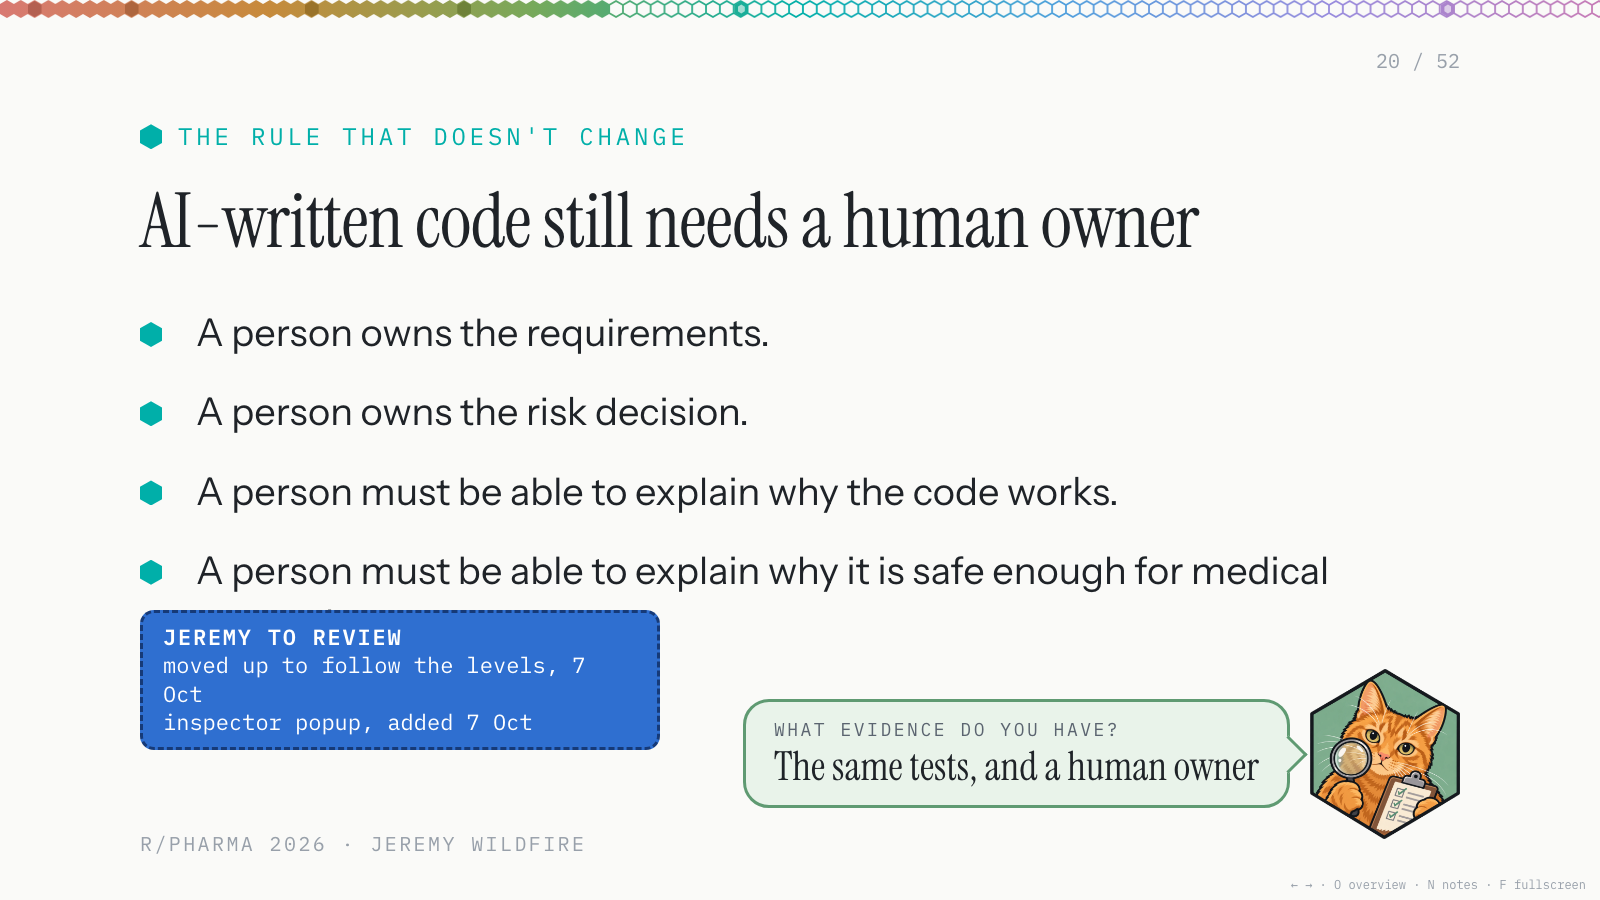
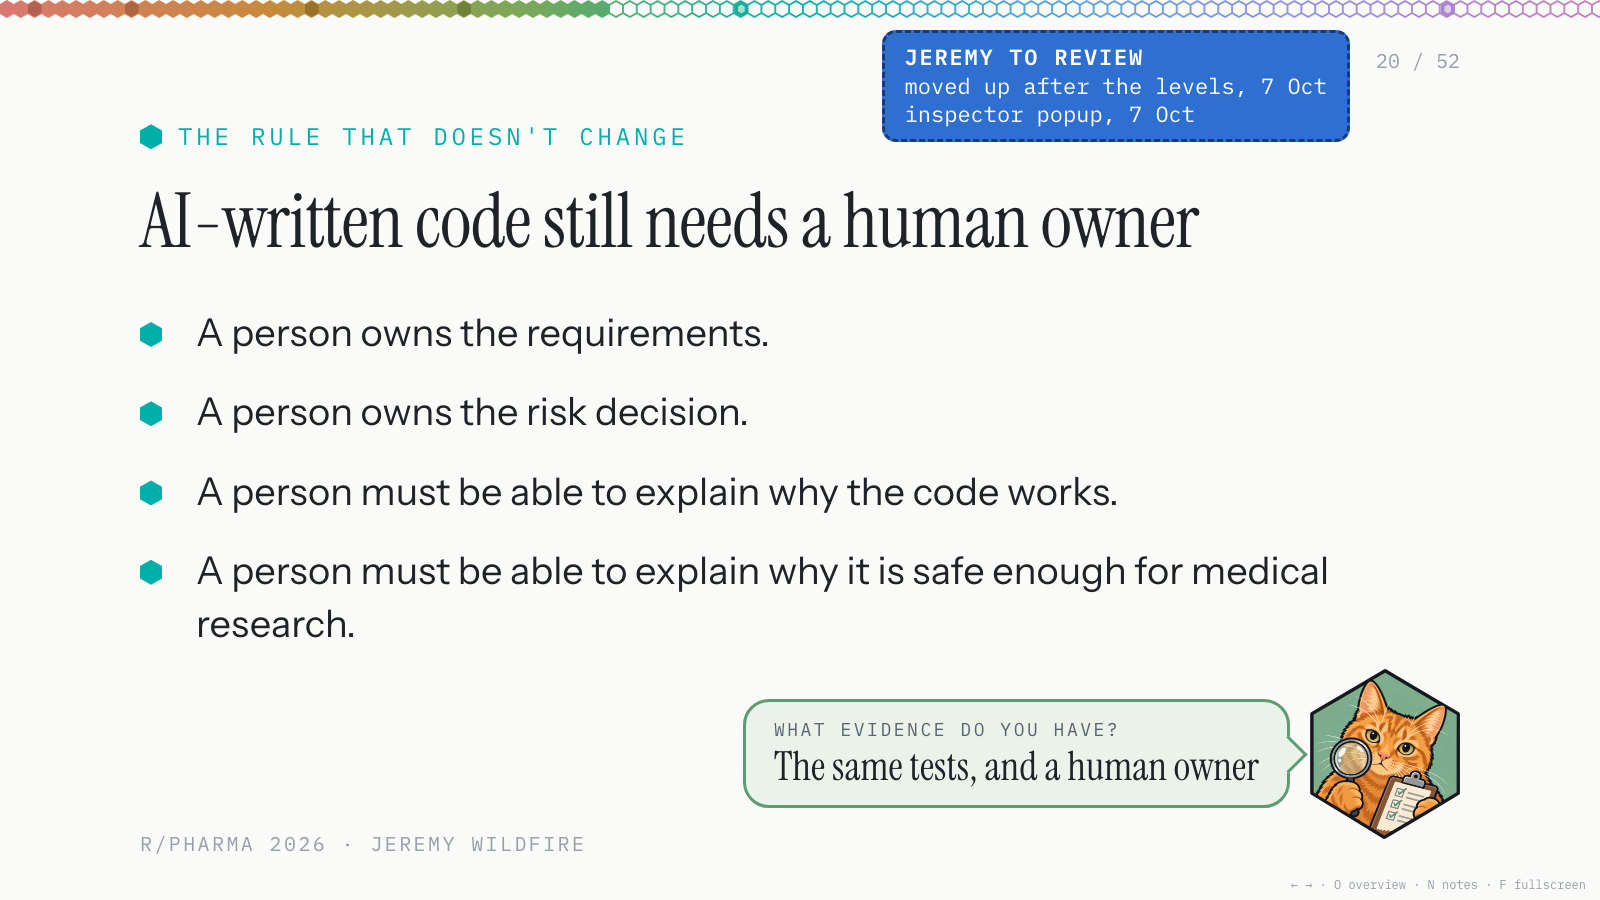
Keynote: slide 20 review box to the header

Changed region(s): [[0.0625, 0.6533, 0.4375, 0.84], [0.5312, 0.0311, 0.8438, 0.1556]]

diff --git a/keynote/slides.html b/keynote/slides.html
@@ -1476,7 +1476,7 @@
         <li>A person must be able to explain why it is safe enough for medical research.</li>
       </ul>
       <div class="goodat insp"><div class="bub"><p class="q">What evidence do you have?</p><p class="a">The same tests, and a human owner</p></div><div class="who"></div></div>
-      <div class="review" style="top: auto; bottom: 150px; right: auto; left: 140px"><b>Jeremy to review</b><br>moved up to follow the levels, 7 Oct<br>inspector popup, added 7 Oct</div>
+      <div class="review" style="top: 30px; right: 250px"><b>Jeremy to review</b><br>moved up after the levels, 7 Oct<br>inspector popup, 7 Oct</div>
       <aside class="notes">
         <strong class="say">&lt;none yet&gt;</strong>
         The four lines are verbatim from the 6 June deck draft (RPharma2026-AIKeynote), which came
